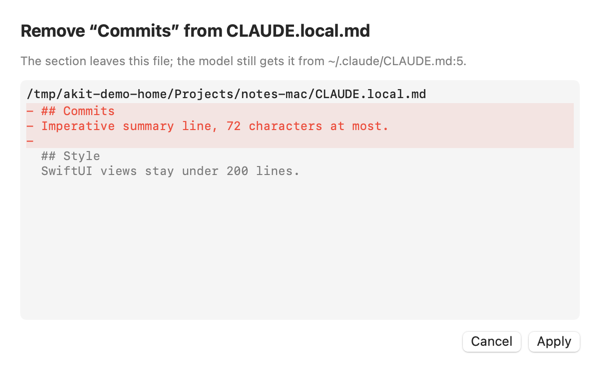
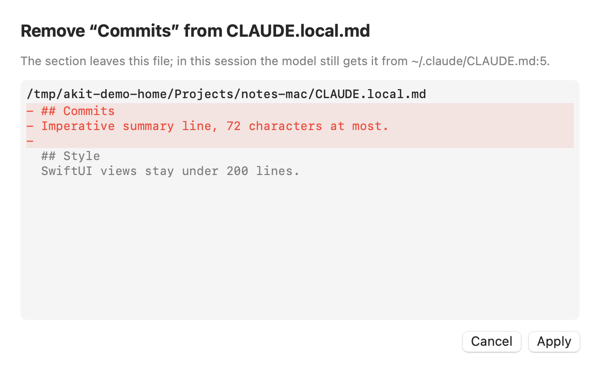
Fix review findings in Remove This Copy
A section in a file read twice through a link is refused (the write
would take it from both places), and so is a section that changed since
the screen read it, a titled lead and a section with an open fence. The
sheet names the harnesses that read the same file and says when a file
is global or above the project; a "differs" version is worded as such.
Whitespace at the end of the file follows the removed section only.

Changed region(s): [[0.27, 0.1478, 0.93, 0.1774]]

diff --git a/AKitCore/Sources/AKitProjectSetup/InstructionEdit.swift b/AKitCore/Sources/AKitProjectSetup/InstructionEdit.swift
@@ -49,14 +49,30 @@ public enum InstructionEdit {
     }
 
     /// What removing the section would change. Only reads (and `git ls-files` for the note).
-    public static func removing(_ section: InstructionSection, from file: URL, rendered: Set<String>, env: HarnessEnvironment) throws(Failure) -> Plan {
-        if let reason = unavailable(section, in: file, rendered: rendered) { throw Failure(message: reason) }
+    /// `others`: the files of the other places that hold the section; one that is this file
+    /// (a link to it, a hard link) is refused, since the write would take it from there too.
+    public static func removing(_ section: InstructionSection, from file: URL, others: [URL] = [], rendered: Set<String>,
+                                env: HarnessEnvironment) throws(Failure) -> Plan {
         let shown = FileWalk.tilde(file, home: env.homeDirectory)
+        if let same = others.first(where: { isSameFile($0, file) }) {
+            throw Failure(message: "\(FileWalk.tilde(same, home: env.homeDirectory)) and \(shown) are one file (a link), read twice. Removing the section would take it from both. Remove the link instead, so the file is read once.")
+        }
         guard let before = try? Data(contentsOf: file), let text = String(data: before, encoding: .utf8) else {
             throw Failure(message: "\(shown) can't be read as text.")
         }
-        guard let after = removed(section, from: text) else {
-            throw Failure(message: "\(shown) changed: its line \(section.line) is no longer \(section.heading.map { "## \($0)" } ?? "that section"). Look at the screen again.")
+        // The section as the file has it now: the same text at the same line, or the screen is stale.
+        guard let fresh = InstructionText.units(text).first(where: { $0.line == section.line }), fresh.text == section.text else {
+            throw Failure(message: "\(shown) changed since the screen read it: line \(section.line) no longer holds \(section.heading.map { "## \($0)" } ?? "that section") as it was. Look at the screen again.")
+        }
+        if let reason = unavailable(fresh, in: file, rendered: rendered) { throw Failure(message: reason) }
+        if fresh.heading == nil, fresh.text.split(separator: "\n").contains(where: { $0.hasPrefix("---") || $0.hasPrefix("# ") }) {
+            throw Failure(message: "The text before the first ## heading of \(shown) holds its header or title. AKit doesn't remove it; edit the file by hand.")
+        }
+        if hasOpenFence(fresh.text) {
+            throw Failure(message: "This section of \(shown) opens a code fence that never closes, so AKit can't tell where the section ends. Edit the file by hand.")
+        }
+        guard let after = removed(fresh, from: text) else {
+            throw Failure(message: "\(shown) changed since the screen read it. Look at the screen again.")
         }
         var notes: [String] = []
         let folder = file.deletingLastPathComponent()
@@ -81,26 +97,52 @@ public enum InstructionEdit {
     }
 
     /// The text without the section's lines, or nil when the file no longer has them at its
-    /// line. One blank line stays between the parts around it; every other byte is kept.
+    /// line. One blank line stays between the parts around it, a removed last section leaves
+    /// the file ending in one newline, and every other byte is kept.
     static func removed(_ section: InstructionSection, from text: String) -> String? {
         var lines = InstructionText.lines(text)
         let own = InstructionText.lines(section.text)
         let start = section.line - 1
         guard start >= 0, start + own.count <= lines.count, Array(lines[start..<(start + own.count)]) == own else { return nil }
-        // The section's text may end with the file's final newline (an empty last line): keep it.
+        let isBlank: (String) -> Bool = { $0.trimmingCharacters(in: .whitespacesAndNewlines).isEmpty }
         let endsFile = start + own.count == lines.count
-        let count = endsFile && own.last?.isEmpty == true ? own.count - 1 : own.count
-        lines.removeSubrange(start..<(start + count))
-        // No two blank lines where the section was, and none left at the top.
-        let isBlank: (String) -> Bool = { $0.trimmingCharacters(in: .whitespaces).replacingOccurrences(of: "\r", with: "").isEmpty }
-        if start > 0, start < lines.count, isBlank(lines[start - 1]), isBlank(lines[start]), !(start == lines.count - 1 && lines[start].isEmpty) {
-            lines.remove(at: start)
+        lines.removeSubrange(start..<(start + own.count))
+        if endsFile {
+            // The last section: the blank lines before it go too, and the file ends in a newline
+            // (after a CRLF line that is its \r\n) unless nothing is left.
+            while let last = lines.last, isBlank(last) { lines.removeLast() }
+            if !lines.isEmpty { lines.append("") }
         } else if start == 0 {
             while lines.count > 1, isBlank(lines[0]) { lines.removeFirst() }
+        } else if isBlank(lines[start - 1]), isBlank(lines[start]) {
+            lines.remove(at: start)
         }
-        // A trailing blank line before the final newline, left by removing the last section.
-        while lines.count >= 2, lines[lines.count - 1].isEmpty, isBlank(lines[lines.count - 2]) { lines.remove(at: lines.count - 2) }
         return lines.joined(separator: "\n")
+    }
+
+    /// A fenced code block opens in the text and never closes.
+    static func hasOpenFence(_ text: String) -> Bool {
+        var open: (mark: Character, length: Int)?
+        for line in InstructionText.lines(text) {
+            let trimmed = line.trimmingCharacters(in: .whitespacesAndNewlines)
+            guard let first = trimmed.first, first == "`" || first == "~" else { continue }
+            let run = trimmed.prefix { $0 == first }.count
+            guard run >= 3 else { continue }
+            if let fence = open {
+                if first == fence.mark, run >= fence.length, trimmed.dropFirst(run).allSatisfy({ $0 == " " || $0 == "\t" }) { open = nil }
+            } else if !(first == "`" && trimmed.dropFirst(run).contains("`")) {
+                open = (first, run)
+            }
+        }
+        return open != nil
+    }
+
+    /// One file on disk: the same real path, or the same device and inode (a hard link).
+    public static func isSameFile(_ a: URL, _ b: URL) -> Bool {
+        if realPath(a) == realPath(b) { return true }
+        var sa = stat(), sb = stat()
+        guard stat(a.path, &sa) == 0, stat(b.path, &sb) == 0 else { return false }
+        return sa.st_dev == sb.st_dev && sa.st_ino == sb.st_ino
     }
 
     static func realPath(_ url: URL) -> String {

diff --git a/AKit/InstructionsView.swift b/AKit/InstructionsView.swift
@@ -25,6 +25,9 @@ struct InstructionsView: View {
     @State private var removalError: String?
     /// Read the files again after a change made here.
     @State private var reload = 0
+    /// Files AKit rendered from the brain into a project (their sections change in the brain);
+    /// read from the brain projects' locks with each scan.
+    @State private var rendered: Set<String> = []
 
     /// Snapshots: `--project <folder name>` under ~/Projects.
     static var initialProject: URL? {
@@ -104,13 +107,15 @@ struct InstructionsView: View {
         .task(id: "\(project?.path ?? "-")|\(harness?.rawValue ?? "-")|\(model.lastScan?.timeIntervalSince1970 ?? 0)|\(reload)") {
             guard let harness else { return }
             let project = project, env = HarnessEnvironment.current
-            let (made, groups) = await Task.detached {
+            let folders = model.brainProjectFolders, store = model.projectStore
+            let (made, groups, written) = await Task.detached {
                 let view = InstructionScanner.view(harness: harness, project: project, env: env)
-                return (view, view.duplicates)
+                return (view, view.duplicates, InstructionEdit.renderedFiles(projects: folders, store: store))
             }.value
             guard !Task.isCancelled else { return }
             view = made
             duplicates = groups
+            rendered = written
             // Snapshots: `--tab remove-copy` opens Remove This Copy… for the selected file's first repeated section.
             if DebugSnapshot.options?.tab == "remove-copy", removal == nil, reload == 0,
                let entry = made.entries.first(where: { $0.id == selection }),
@@ -184,21 +189,26 @@ struct InstructionsView: View {
         }
     }
 
-    /// Files AKit rendered from the brain into a project: their sections change in the brain.
-    private var rendered: Set<String> {
-        InstructionEdit.renderedFiles(projects: model.brainProjectFolders, store: model.projectStore)
-    }
-
     private func planRemoval(of section: InstructionSection, in entry: InstructionEntry) {
         let rendered = rendered, env = HarnessEnvironment.current, file = entry.file
-        let others = duplicates.first { $0.places.contains { $0.file == file && $0.section.line == section.line } }?
-            .places.filter { !($0.file == file && $0.section.line == section.line) } ?? []
+        let group = duplicates.first { $0.places.contains { $0.file == file && $0.section.line == section.line } }
+        let others = group?.places.filter { !($0.file == file && $0.section.line == section.line) } ?? []
+        let shown = harness, project = project, level = entry.level
         Task {
-            let result = await Task.detached {
-                Result { () throws(InstructionEdit.Failure) in try InstructionEdit.removing(section, from: file, rendered: rendered, env: env) }
+            let result = await Task.detached { () -> Result<(InstructionEdit.Plan, [HarnessID]), InstructionEdit.Failure> in
+                Result { () throws(InstructionEdit.Failure) in
+                    let plan = try InstructionEdit.removing(section, from: file, others: others.map(\.file), rendered: rendered, env: env)
+                    // The other harnesses that read this same file in this session lose the section too.
+                    let readers = InstructionScanner.harnesses.filter { $0 != shown }.filter { harness in
+                        InstructionScanner.view(harness: harness, project: project, env: env).loaded
+                            .contains { InstructionEdit.isSameFile($0.file, file) }
+                    }
+                    return (plan, readers)
+                }
             }.value
             switch result {
-            case .success(let plan): removal = SectionRemoval(plan: plan, others: others)
+            case .success(let (plan, readers)):
+                removal = SectionRemoval(plan: plan, others: others, differs: group?.kind == .differs, level: level, readers: readers)
             case .failure(let error): removalError = error.message
             }
         }
@@ -410,6 +420,11 @@ struct SectionRemoval: Identifiable {
     let id = UUID()
     let plan: InstructionEdit.Plan
     let others: [InstructionDuplicate.Place]
+    /// The other places hold other versions (same heading, other text).
+    let differs: Bool
+    let level: InstructionLevel
+    /// Other harnesses that read this same file in the session.
+    let readers: [HarnessID]
 }
 
 /// The removal as a diff, with Apply and Cancel.
@@ -468,7 +483,18 @@ private struct SectionRemovalSheet: View {
 
     private var summary: String {
         let kept = request.others.map { "\($0.file.tildePath):\($0.section.line)" }.joined(separator: ", ")
-        return kept.isEmpty ? "The section leaves this file." : "The section leaves this file; the model still gets it from \(kept)."
+        var parts = [kept.isEmpty ? "The section leaves this file."
+                     : request.differs ? "This version leaves the file; no other place has this text. Other versions stay in \(kept)."
+                     : "The section leaves this file; in this session the model still gets it from \(kept)."]
+        switch request.level {
+        case .global: parts.append("This is a global file: every session of this harness, in every project, loses it here.")
+        case .above(let folder): parts.append("Every session in a folder under \(folder.tildePath) loses it here.")
+        case .project: break
+        }
+        if !request.readers.isEmpty {
+            parts.append("\(request.readers.map(\.displayName).joined(separator: ", ")) also read\(request.readers.count == 1 ? "s" : "") this file here and lose\(request.readers.count == 1 ? "s" : "") it too, unless they get it from another file.")
+        }
+        return parts.joined(separator: " ")
     }
 }
 

diff --git a/AKitCore/Tests/AKitProjectSetupTests/InstructionEditTests.swift b/AKitCore/Tests/AKitProjectSetupTests/InstructionEditTests.swift
@@ -32,6 +32,9 @@ struct InstructionEditTests {
         ("## A\na\n\n## B\nb\n", "A", "## B\nb\n"),
         ("## A\r\na\r\n\r\n## B\r\nb\r\n", "A", "## B\r\nb\r\n"),
         ("# T\n\n## A\na", "A", "# T\n"),
+        // Review round: trailing blank lines of the next section stay; a CRLF file without a final newline.
+        ("## A\na\n\n## B\nb\n\n\n", "A", "## B\nb\n\n\n"),
+        ("## A\r\na\r\n\r\n## B\r\nb", "B", "## A\r\na\r\n"),
     ])
     func removesTheLinesAndKeepsEveryOtherByte(text: String, heading: String, expected: String) throws {
         // A folder per case: the cases run at the same time.
@@ -68,5 +71,44 @@ struct InstructionEditTests {
         #expect(plan.notes.first?.hasPrefix("git tracks AGENTS.md") == true)
         try InstructionEdit.apply(plan, env: env)
         #expect(FileManager.default.fileExists(atPath: url.path))
+    }
+
+    // MARK: - Review round (2026-10-14)
+
+    @Test func aFileReadTwiceThroughALinkIsRefused() throws {
+        let real = try file("w/AGENTS.md", "## Commits\nShort lines.\n\n## Style\nTabs.\n")
+        let link = home.appending(path: "w/p/AGENTS.md")
+        try FileManager.default.createDirectory(at: link.deletingLastPathComponent(), withIntermediateDirectories: true)
+        try FileManager.default.createSymbolicLink(atPath: link.path, withDestinationPath: "../AGENTS.md")
+        #expect { try InstructionEdit.removing(try section("Commits", in: link), from: link, others: [real], rendered: [], env: env) } throws: { error in
+            (error as? InstructionEdit.Failure)?.message.contains("are one file (a link), read twice") == true
+        }
+        // A hard link is one file too.
+        let hard = home.appending(path: "w/hard.md")
+        try FileManager.default.linkItem(at: real, to: hard)
+        let other = try file("w/other.md", "x")
+        #expect(InstructionEdit.isSameFile(hard, real) && !InstructionEdit.isSameFile(hard, other))
+    }
+
+    @Test func aSectionThatGrewSinceTheScreenIsRefused() throws {
+        let url = try file("AGENTS.md", "## A\na\n## B\nb\n")
+        let old = try section("A", in: url)
+        try Data("## A\na\nNEW RULE\n## B\nb\n".utf8).write(to: url)
+        #expect { try InstructionEdit.removing(old, from: url, rendered: [], env: env) } throws: { error in
+            (error as? InstructionEdit.Failure)?.message.contains("changed since the screen read it") == true
+        }
+    }
+
+    @Test func anOpenFenceAndATitledLeadAreLeftToTheUser() throws {
+        let fenced = try file("fenced/AGENTS.md", "## A\n```sh\nmake\n\n## B\nb\n")
+        #expect { try InstructionEdit.removing(try section("A", in: fenced), from: fenced, rendered: [], env: env) } throws: { error in
+            (error as? InstructionEdit.Failure)?.message.contains("never closes") == true
+        }
+        let titled = try file("titled/AGENTS.md", "# Title\n\nIntro text.\n\n## A\na\n")
+        let lead = try #require(InstructionText.units(String(decoding: try Data(contentsOf: titled), as: UTF8.self)).first)
+        #expect(lead.heading == nil)
+        #expect { try InstructionEdit.removing(lead, from: titled, rendered: [], env: env) } throws: { error in
+            (error as? InstructionEdit.Failure)?.message.contains("holds its header or title") == true
+        }
     }
 }

diff --git a/docs/guides/screens.ru.md b/docs/guides/screens.ru.md
@@ -1523,17 +1523,21 @@ akit remove skill ИМЯ --everywhere
 
 1. Выберите файл, из которого раздел должен уйти.
 2. В **Sections** под повторённым разделом нажмите **Remove This Copy…**.
-3. Откроется окно «Remove “Commits” from CLAUDE.local.md». Под заголовком написано, откуда модель всё ещё получит этот раздел.
+3. Откроется окно «Remove “Commits” from CLAUDE.local.md». Под заголовком написано, откуда модель в этой сессии всё ещё получит этот раздел.
 4. Посмотрите изменения: красным то, что уйдёт.
 5. Нажмите **Apply**. AKit сначала копирует файл в `~/.akit/backups`, потом записывает его без раздела.
 
-![Окно Remove “Commits” from CLAUDE.local.md: строка The section leaves this file; the model still gets it from ~/.claude/CLAUDE.md:5; diff файла …/notes-mac/CLAUDE.local.md, где строки ## Commits и Imperative summary line, 72 characters at most. красные, а раздел ## Style остаётся; кнопки Cancel и Apply](images/instructions-remove.png)
+![Окно Remove “Commits” from CLAUDE.local.md: строка The section leaves this file; in this session the model still gets it from ~/.claude/CLAUDE.md:5; diff файла …/notes-mac/CLAUDE.local.md, где строки ## Commits и Imperative summary line, 72 characters at most. красные, а раздел ## Style остаётся; кнопки Cancel и Apply](images/instructions-remove.png)
 
 - **Cancel** ничего не меняет.
 - Убрать можно и одну из версий раздела с тем же заголовком (строка «Same heading, other text in …»).
 - Если файл изменился после открытия окна, AKit его не тронет и покажет ошибку. Откройте окно снова.
 - Файл, который git хранит в репозитории, AKit тоже меняет. Окно предупреждает: изменение будет видно в `git status`. Коммит AKit не делает.
 - Если в файле больше ничего не осталось, файл остаётся пустым. Удалите его сами, если он не нужен.
+- Окно говорит, кто ещё потеряет раздел: другие агенты, которые читают этот же файл, и все проекты, если файл общий или лежит выше проекта.
+- Если два места — один файл (ссылка), AKit ничего не меняет и предлагает убрать ссылку. Иначе раздел ушёл бы из обоих мест.
+- Если файл изменился после того, как экран его прочитал, AKit откажет. Нажмите **Refresh** (⌘R) и попробуйте снова.
+- Текст до первого заголовка `##` с шапкой (`---`) или заголовком `#`, и раздел с незакрытым блоком кода AKit не убирает. Поправьте файл сами.
 - Кнопка серая, если:
   - раздел — часть блока AKit (`brain · core`). Его меняют в brain: **Brain** → слой core → **Edit Layer…**, потом **Update Home Folder…**;
   - файл AKit записал в проект из слоёв brain. Следующий **Set Up Project…** вернул бы раздел, поэтому меняйте слой на экране [Brain](#brain).

diff --git a/docs/design/instructions.md b/docs/design/instructions.md
@@ -22,7 +22,12 @@ the section's lines leave one file (one blank line kept between the parts around
 byte unchanged, CRLF too), diff first, `SettingsFile.write` with backup, refused when the file
 changed or the section moved. Not offered for AKit's block or a file in a brain project's lock
 (`InstructionEdit.renderedFiles`). A git-tracked file gets a note (D12); an emptied file stays.
-No CLI command yet. Step 0 (the facts below) is done: checked the same day in
+No CLI command yet. Review round the same day: refused when another place of the section is the
+same file (a link or hard link, read twice by Pi or Codex), when the section changed since the
+screen read it (re-split and compared), for a lead with a header or `#` title and for a section
+with an unclosed fence. The sheet names the other harnesses that read the same file and says
+when the file is global or above the project. Not handled: a rendered file checked out in a
+worktree of a brain project (only the main checkout's paths are in the lock). Step 0 (the facts below) is done: checked the same day in
 the installed harnesses' code and docs.
 
 ## Problem
